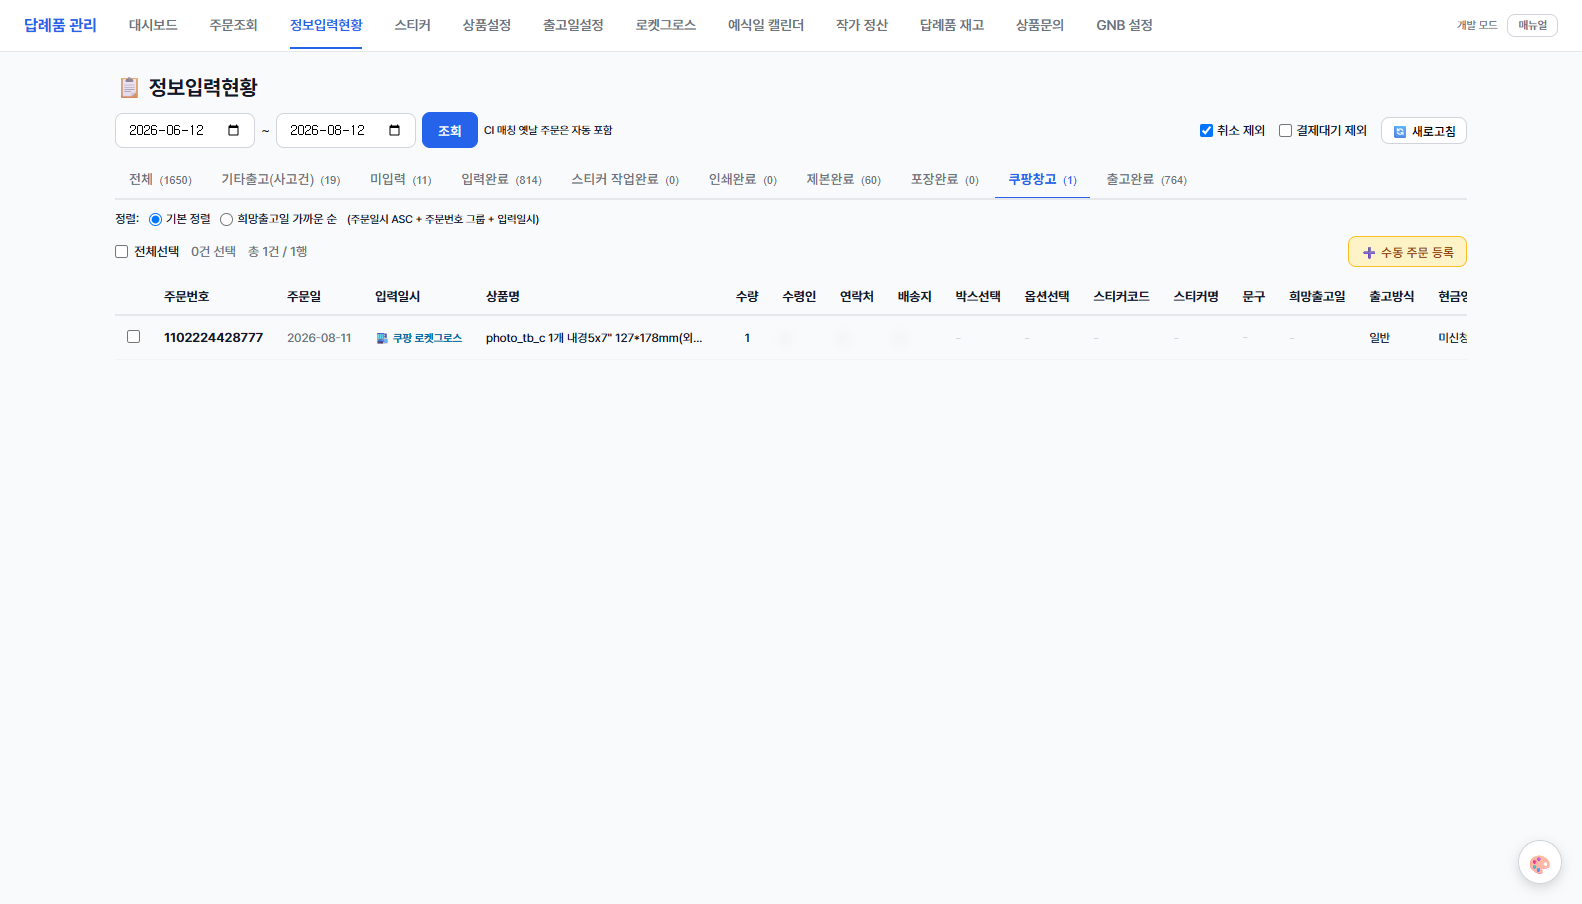
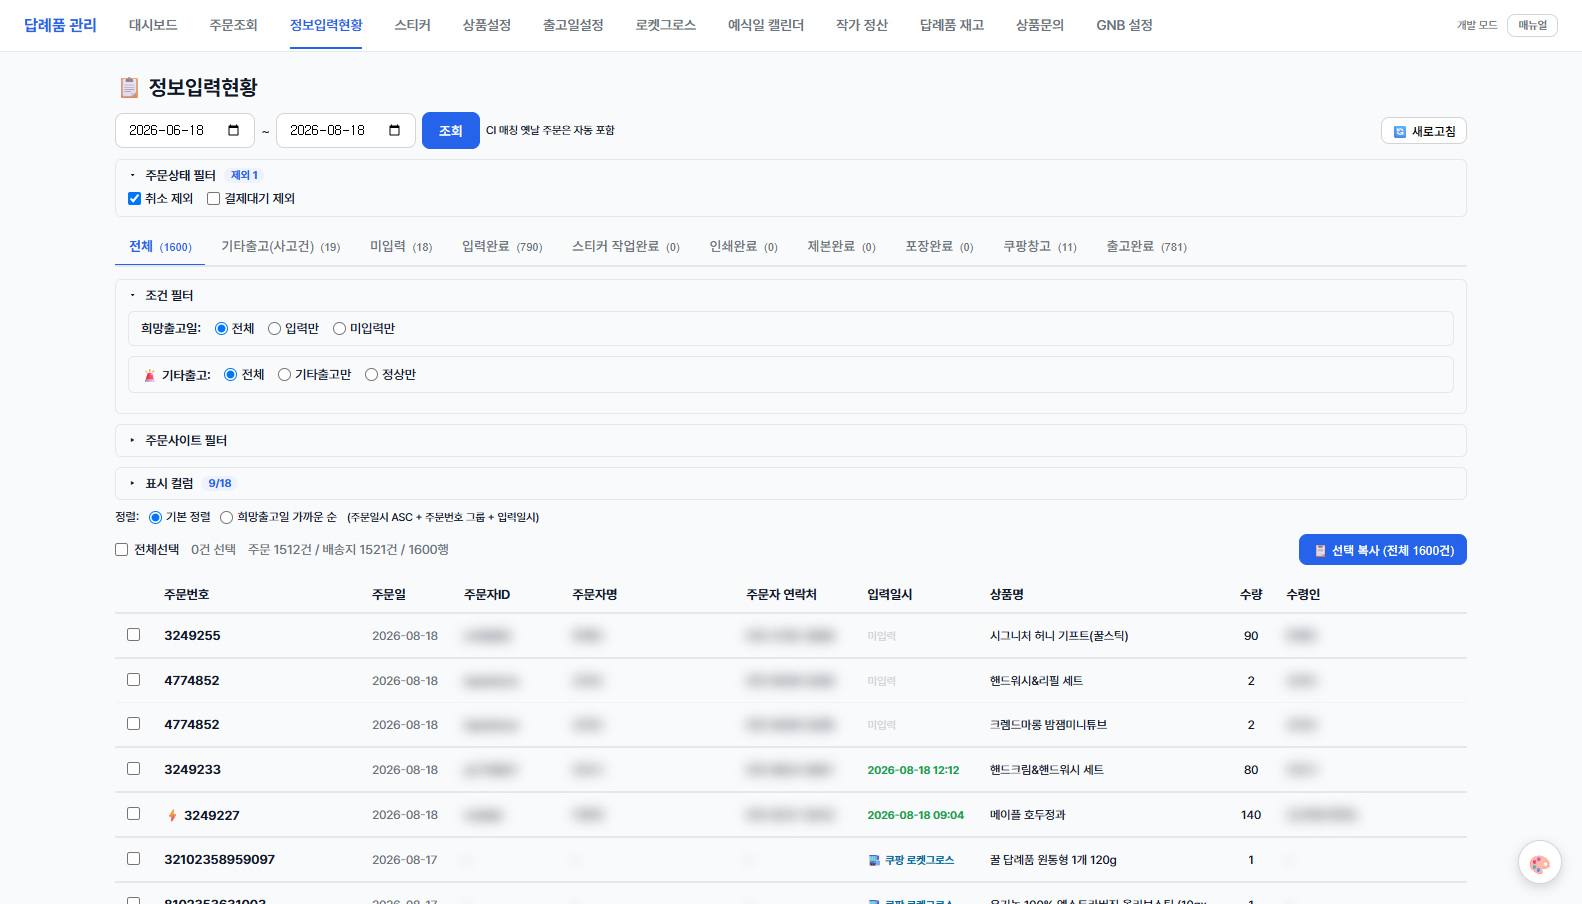
feat: 정보입력현황 — 필터를 주문조회와 같은 접이식 레벨 구조로 정리
조회·제외옵션·희망출고일·기타출고·주문사이트·표시컬럼이 한 화면에 쭉 나열돼 있어
매번 쓰는 것과 가끔 쓰는 것을 눈으로 갈라내야 했다. 기능은 그대로 두고 층만 나눈다.

· 1단 조회: 기간·조회·새로고침
· 2단 설정(접힘): 주문상태 / 조건(희망출고일·기타출고) / 주문사이트 / 표시 컬럼.
  접어 둔 채로도 걸린 조건이 보이도록 제목 옆 배지 — '제외 1', '희망출고일 입력만',
  '7/8', '9/18'. 펼침 상태는 localStorage 에 기억한다 (주문조회와 같은 방식).
· 조건·사이트·컬럼은 전체 탭에서만 노출. 주문상태는 전 탭 공통이라 항상 보인다.

안쪽 요소의 display 제어는 기존 로직을 그대로 뒀다 — renderBgUnified 가 그 값으로
필터 활성 여부를 판정하는 곳이 있어, 바깥 details 만 새로 제어한다.

검증: 전체 탭 1,737행 → 필터 3종 적용 786행, 배지 4종 정확, 미입력·기타출고 탭에서
조건/사이트/컬럼 구역이 접히고 주문상태만 남는 것 확인.

diff --git a/pricing-prototype/daeryepum/index.html b/pricing-prototype/daeryepum/index.html
@@ -3298,7 +3298,8 @@ nav.nav-loading a[href^="#"] {
     날짜 기본값: 최근 6개월 (MSSQL 부담 회피).
     customer_info 가 있는 옛날 주문은 date range 밖이어도 자동 추가 fetch (by-IDs) — 누락 없음.
   -->
-  <div class="toolbar" style="margin-bottom:12px;gap:12px">
+  <!-- 1단 조회 — 매번 쓰는 것만 펼쳐 둔다 (주문조회와 같은 3단 구조) -->
+  <div class="toolbar" style="margin-bottom:10px;gap:12px">
     <div style="display:flex;gap:6px;align-items:center;flex-wrap:wrap;flex:1;min-width:0">
       <input type="date" id="uni-start" />
       <span>~</span>
@@ -3306,19 +3307,26 @@ nav.nav-loading a[href^="#"] {
       <button class="btn btn-primary" onclick="loadBgUnified()">조회</button>
       <span style="font-size:11px;color:var(--gray-400)">CI 매칭 옛날 주문은 자동 포함</span>
     </div>
-    <div style="display:flex;gap:14px;align-items:center;flex-wrap:wrap">
-      <label style="font-size:13px;cursor:pointer;display:flex;align-items:center;gap:4px">
-        <input type="checkbox" id="uni-hide-cancel" onchange="renderBgUnified()"> 취소 제외
-      </label>
-      <label style="font-size:13px;cursor:pointer;display:flex;align-items:center;gap:4px" title="결제 미완료 상태인 주문 제외 (status_seq=1 결제대기 또는 9 초안컨펌완료/결제대기, settle_date 비어있음)">
-        <input type="checkbox" id="uni-hide-pending" onchange="renderBgUnified()"> 결제대기 제외
-      </label>
-      <label id="uni-hide-processed-wrap" style="font-size:13px;cursor:pointer;display:none;align-items:center;gap:4px">
-        <input type="checkbox" id="uni-hide-processed" onchange="renderBgUnified()"> 수집완료 숨기기
-      </label>
-      <button class="btn" onclick="loadBgUnified()" title="목록 새로고침" style="padding:4px 10px;font-size:12px">🔄 새로고침</button>
-    </div>
+    <button class="btn" onclick="loadBgUnified()" title="목록 새로고침" style="padding:4px 10px;font-size:12px">🔄 새로고침</button>
   </div>
+
+  <!-- 2단 설정 — 성격이 다른 것끼리 따로 접는다. 접은 상태는 브라우저에 기억한다. -->
+  <details class="ord-sec" id="uni-sec-status">
+    <summary>주문상태 필터 <span class="ord-badge" id="uni-status-badge" style="display:none"></span></summary>
+    <div class="ord-sec-body">
+      <div style="display:flex;gap:14px;align-items:center;flex-wrap:wrap">
+        <label style="font-size:13px;cursor:pointer;display:flex;align-items:center;gap:4px">
+          <input type="checkbox" id="uni-hide-cancel" onchange="renderBgUnified()"> 취소 제외
+        </label>
+        <label style="font-size:13px;cursor:pointer;display:flex;align-items:center;gap:4px" title="결제 미완료 상태인 주문 제외 (status_seq=1 결제대기 또는 9 초안컨펌완료/결제대기, settle_date 비어있음)">
+          <input type="checkbox" id="uni-hide-pending" onchange="renderBgUnified()"> 결제대기 제외
+        </label>
+        <label id="uni-hide-processed-wrap" style="font-size:13px;cursor:pointer;display:none;align-items:center;gap:4px">
+          <input type="checkbox" id="uni-hide-processed" onchange="renderBgUnified()"> 수집완료 숨기기
+        </label>
+      </div>
+    </div>
+  </details>
 
   <!-- 탭: 7단계 워크플로우 (미입력 → 출고완료) -->
   <div id="uni-tab-strip" style="display:flex;gap:2px;border-bottom:2px solid var(--gray-200);margin-bottom:12px;flex-wrap:wrap;overflow-x:auto">
@@ -3359,8 +3367,10 @@ nav.nav-loading a[href^="#"] {
   <!-- 현재 활성 탭 상태 (내부) -->
   <input type="hidden" id="uni-active-tab" value="unsubmitted">
 
-  <!-- 전체 탭 전용: 복사 컬럼 선택 UI (주문조회 페이지와 유사) -->
-  <div id="uni-all-col-selector" class="col-selector" style="display:none;margin-bottom:12px"></div>
+  <!-- 전체 탭 전용 구역 — 조건 필터(희망출고일·기타출고)와 주문사이트, 표시 컬럼을 각각 접는다 -->
+  <details class="ord-sec" id="uni-sec-cond" style="display:none">
+    <summary>조건 필터 <span class="ord-badge" id="uni-cond-badge" style="display:none"></span></summary>
+    <div class="ord-sec-body">
 
   <!-- 희망출고일 필터 (라디오) — 전체 탭 전용, row 단위 desired_ship_date 판정 -->
   <div id="uni-ship-date-filter" style="display:none;gap:14px;align-items:center;padding:9px 12px;background:#f8fafc;border:1px solid var(--gray-200);border-radius:6px;margin-bottom:10px;font-size:13px;flex-wrap:wrap">
@@ -3389,6 +3399,13 @@ nav.nav-loading a[href^="#"] {
       <input type="radio" name="uni-special-shipping" value="normal" onchange="renderBgUnified()"> 정상만
     </label>
   </div>
+
+    </div>
+  </details>
+
+  <details class="ord-sec" id="uni-sec-site" style="display:none">
+    <summary>주문사이트 필터 <span class="ord-badge" id="uni-site-badge" style="display:none"></span></summary>
+    <div class="ord-sec-body">
 
   <!-- 주문사이트 필터 (체크박스 그룹) — 전체 탭 전용, 다른 탭에 영향 없음 -->
   <div id="uni-site-filter" style="display:none;gap:14px;align-items:center;padding:9px 12px;background:#f8fafc;border:1px solid var(--gray-200);border-radius:6px;margin-bottom:10px;font-size:13px;flex-wrap:wrap">
@@ -3421,6 +3438,16 @@ nav.nav-loading a[href^="#"] {
     <button class="btn" onclick="document.querySelectorAll('#uni-site-filter input').forEach(c=>c.checked=true);renderBgUnified()" style="padding:3px 8px;font-size:11px" title="모든 사이트 체크">전체선택</button>
     <button class="btn" onclick="document.querySelectorAll('#uni-site-filter input').forEach(c=>c.checked=false);renderBgUnified()" style="padding:3px 8px;font-size:11px" title="모두 해제">해제</button>
   </div>
+
+    </div>
+  </details>
+
+  <details class="ord-sec" id="uni-sec-cols" style="display:none">
+    <summary>표시 컬럼 <span class="ord-badge" id="uni-cols-badge" style="display:none"></span></summary>
+    <div class="ord-sec-body">
+      <div id="uni-all-col-selector" class="col-selector" style="display:none;margin-bottom:0"></div>
+    </div>
+  </details>
 
   <!-- 정렬 옵션 — 입력완료 ~ 출고완료 탭 (미입력 제외) -->
   <div id="uni-sort-options" style="display:none;align-items:center;gap:10px;margin-bottom:10px;font-size:12px;color:var(--gray-600)">
@@ -4531,6 +4558,7 @@ function init() {
 
   buildColSelector();
   _ordSecRestore();
+  _uniSecRestore();
   // GNB 설정 적용 — 페이지 로드 직후 (네비 깜빡임 최소화). 실패해도 페이지 진행.
   fetchAndApplyNavConfig().catch(() => {});
   // 배경 패턴 복원 (localStorage)
@@ -19456,6 +19484,62 @@ async function loadBgUnified() {
 }
 
 /** 정보입력현황 탭 전환 (7단계 워크플로우) */
+// ── 정보입력현황 접이식 구역 (주문조회와 같은 방식) ──────────────
+//   접어 둔 채로도 무엇이 걸려 있는지 보이도록 제목 옆에 배지를 단다.
+const UNI_SEC_KEY = 'uni-sections-open';
+
+function _uniSecRestore() {
+  let open = {};
+  try { open = JSON.parse(localStorage.getItem(UNI_SEC_KEY) || '{}'); } catch {}
+  ['uni-sec-status', 'uni-sec-cond', 'uni-sec-site', 'uni-sec-cols'].forEach(id => {
+    const el = document.getElementById(id);
+    if (!el) return;
+    el.open = !!open[id];
+    el.addEventListener('toggle', () => {
+      let cur = {};
+      try { cur = JSON.parse(localStorage.getItem(UNI_SEC_KEY) || '{}'); } catch {}
+      cur[id] = el.open;
+      try { localStorage.setItem(UNI_SEC_KEY, JSON.stringify(cur)); } catch {}
+    });
+  });
+}
+
+function _uniUpdateBadges() {
+  const set = (id, text) => {
+    const el = document.getElementById(id);
+    if (!el) return;
+    el.textContent = text || '';
+    el.style.display = text ? '' : 'none';
+  };
+  // 주문상태 — 켜진 제외 옵션 수 (숨겨진 '수집완료 숨기기' 는 세지 않는다)
+  const excl = ['uni-hide-cancel', 'uni-hide-pending', 'uni-hide-processed']
+    .filter(id => {
+      const el = document.getElementById(id);
+      if (!el || !el.checked) return false;
+      const wrap = el.closest('label');
+      return !wrap || wrap.style.display !== 'none';
+    }).length;
+  set('uni-status-badge', excl ? `제외 ${excl}` : '');
+
+  // 조건 — 희망출고일 / 기타출고 중 '전체' 가 아닌 것
+  const radio = (name) => document.querySelector(`input[name="${name}"]:checked`)?.value || 'all';
+  const conds = [];
+  const shipV = radio('uni-ship-date');
+  if (shipV !== 'all') conds.push(shipV === 'filled' ? '희망출고일 입력만' : '희망출고일 미입력만');
+  const spV = radio('uni-special-shipping');
+  if (spV !== 'all') conds.push(spV === 'special' ? '기타출고만' : '정상만');
+  set('uni-cond-badge', conds.join(' · '));
+
+  // 사이트 — 전부 켠 기본 상태에서는 배지를 숨긴다
+  const sites = [...document.querySelectorAll('#uni-site-filter input[data-site]')];
+  const on = sites.filter(cb => cb.checked).length;
+  set('uni-site-badge', (sites.length && on < sites.length) ? `${on}/${sites.length}` : '');
+
+  // 컬럼 — 켜진 개수
+  const cols = [...document.querySelectorAll('#uni-all-col-selector input[data-key]')];
+  set('uni-cols-badge', cols.length ? `${cols.filter(c => c.checked).length}/${cols.length}` : '');
+}
+
 function switchUniTab(tab) {
   document.getElementById('uni-active-tab').value = tab;
   document.querySelectorAll('#uni-tab-strip .uni-tab').forEach(btn => {
@@ -19472,7 +19556,9 @@ function switchUniTab(tab) {
     document.getElementById('uni-loading').style.display = 'none';
     ['uni-site-filter', 'uni-ship-date-filter', 'uni-special-shipping-filter',
      'uni-submitted-subfilter', 'uni-hide-processed-wrap', 'uni-sort-options',
-     'uni-all-col-selector'].forEach(id => {
+     'uni-all-col-selector',
+     // 접이식 구역도 함께 — 안쪽만 숨기면 빈 제목줄이 남는다
+     'uni-sec-cond', 'uni-sec-site', 'uni-sec-cols'].forEach(id => {
       const el = document.getElementById(id);
       if (el) el.style.display = 'none';
     });
@@ -19513,6 +19599,12 @@ function switchUniTab(tab) {
     if (tab === 'all' && !colSelectorEl.innerHTML) buildUniAllColSelector();
     colSelectorEl.style.display = (tab === 'all') ? '' : 'none';
   }
+  // 접이식 구역 — 전체 탭에서만 노출. 안쪽 요소의 display 는 기존 로직이 계속 관리한다
+  //   (renderBgUnified 가 그 값으로 '필터가 살아 있는가' 를 판정하는 곳이 있어 건드리지 않는다).
+  ['uni-sec-cond', 'uni-sec-site', 'uni-sec-cols'].forEach(id => {
+    const el = document.getElementById(id);
+    if (el) el.style.display = (tab === 'all') ? '' : 'none';
+  });
   const btnManualOrder = document.getElementById('uni-btn-manual-order');
   if (btnManualOrder) btnManualOrder.style.display = (tab === 'all') ? 'none' : '';
   // 주문사이트 필터 UI — 전체 탭에서만 노출 (다른 탭과 격리)
@@ -19527,6 +19619,7 @@ function switchUniTab(tab) {
   // 정렬 옵션 — 미입력 외 모든 탭 노출. 기본 정렬 힌트는 탭별로 다름.
   const sortOpts = document.getElementById('uni-sort-options');
   if (sortOpts) sortOpts.style.display = (tab !== 'unsubmitted') ? 'flex' : 'none';
+  _uniUpdateBadges();
   const hintEl = document.getElementById('uni-sort-default-hint');
   if (hintEl) {
     if (tab === 'submitted') {
@@ -19623,6 +19716,7 @@ function toggleRfmList() {
 }
 
 function renderBgUnified() {
+  _uniUpdateBadges();
   const hideCancel = document.getElementById('uni-hide-cancel')?.checked;
   const hidePending = document.getElementById('uni-hide-pending')?.checked;
   // 탭 상태 = 필터 소스 (submitted / unsubmitted). 기존 '전체' 옵션은 제거됨.

diff --git a/pricing-prototype/daeryepum/manual.html b/pricing-prototype/daeryepum/manual.html
@@ -265,8 +265,17 @@ code{background:var(--gray-100);padding:2px 6px;border-radius:4px;font-size:12px
 <div class="tip">택배사는 송장 등록 때 고른 이름(CJ대한통운·한진택배·롯데택배·우체국택배·로젠택배)을 채널 코드로 바꿔 보냅니다. 그 밖의 택배사로 등록된 건은 코드를 알 수 없어 전송 대상에서 빠지니, 채널 관리자에서 직접 입력해 주세요.</div>
 
 <h2 id="unified">5. 정보입력현황</h2>
-<div class="img-wrap"><img src="manual-assets/bg-unified.png" alt="정보입력현황"><div class="img-cap">정보입력현황 — 주문별 스티커/박스/문구/출고일 관리, 상태 진행</div></div>
+<div class="img-wrap"><img src="manual-assets/bg-unified.png" alt="정보입력현황"><div class="img-cap">정보입력현황 — 조회줄 / 접이식 필터 구역 / 탭 · 표 (개인정보 블러)</div></div>
+<p>화면은 주문조회와 <b>같은 3단</b>으로 정리돼 있습니다. 자주 쓰지 않는 설정은 접혀 있고, 접은 상태는 다음에 들어와도 유지됩니다.</p>
 <ul>
+  <li><b>1단 — 조회</b>: 기간 · [조회] · [새로고침]</li>
+  <li><b>2단 — 필터</b>(접힘): 성격이 다른 셋을 각각 접어 둡니다.
+    <br>· <b>주문상태 필터</b> — 취소 제외 / 결제대기 제외 / (입력완료 탭에서) 수집완료 숨기기 · 배지 <code>제외 N</code>
+    <br>· <b>조건 필터</b> — 희망출고일, 기타출고 · 배지에 걸린 조건을 그대로 표시
+    <br>· <b>주문사이트 필터</b> — 채널 선택 · 배지 <code>7/8</code>
+    <br>· <b>표시 컬럼</b> — 배지 <code>9/18</code>
+    <br>조건·사이트·컬럼 세 구역은 <b>전체 탭에서만</b> 나옵니다(다른 탭에는 적용되지 않는 필터라 감춥니다). 주문상태 필터는 모든 탭에 적용되어 항상 보입니다.</li>
+  <li><b>3단 — 탭과 표</b>: 워크플로 단계별 탭과 목록</li>
   <li>모든 채널의 답례품 주문이 모여 <b>스티커 종류·문구·박스·희망출고일</b>을 관리하는 핵심 작업 화면입니다.</li>
   <li><b>상태 흐름</b>: <span class="badge">미입력</span> → <span class="badge b-blue">입력완료</span> → <span class="badge b-green">스티커완료</span> → 인쇄 → 제본 → 포장 → 출고. 각 단계 버튼으로 진행 처리합니다.</li>
   <li><b>🏬 쿠팡창고 탭</b>: 로켓그로스 주문 중 아직 배송완료가 아닌 건이 여기 모입니다. 쿠팡 물류센터가 보관·출고하므로 <b>우리가 할 작업이 없고</b>, 그래서 포장완료 탭에는 섞이지 않습니다. 배송완료되면 출고완료로 넘어갑니다.</li>
